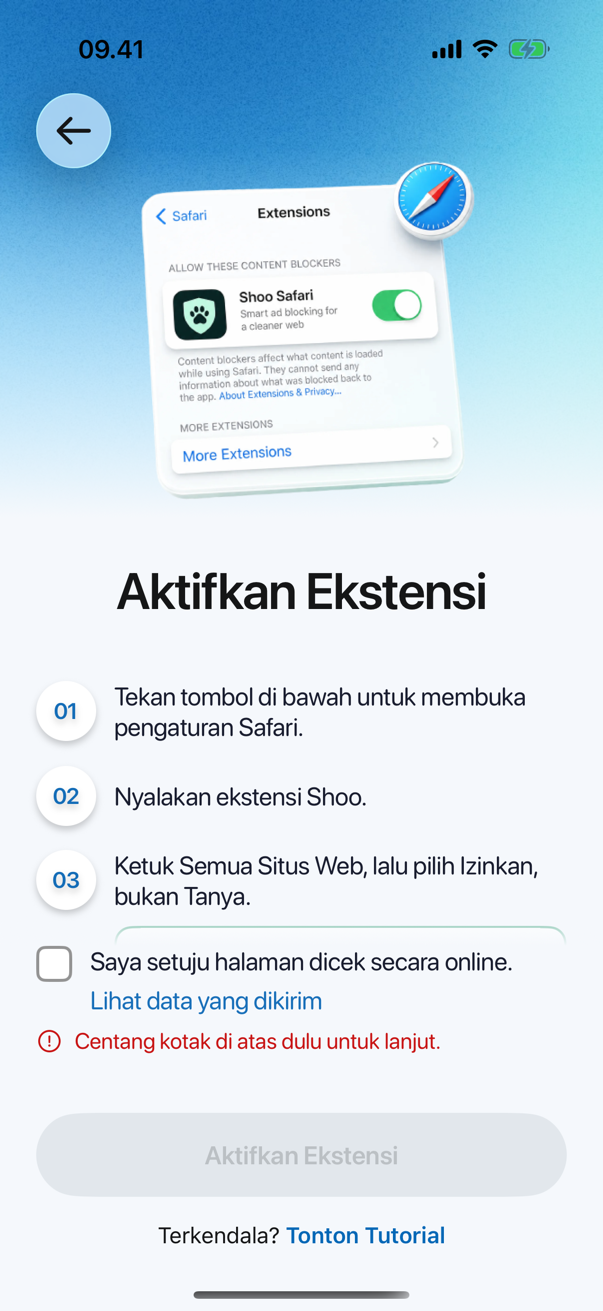
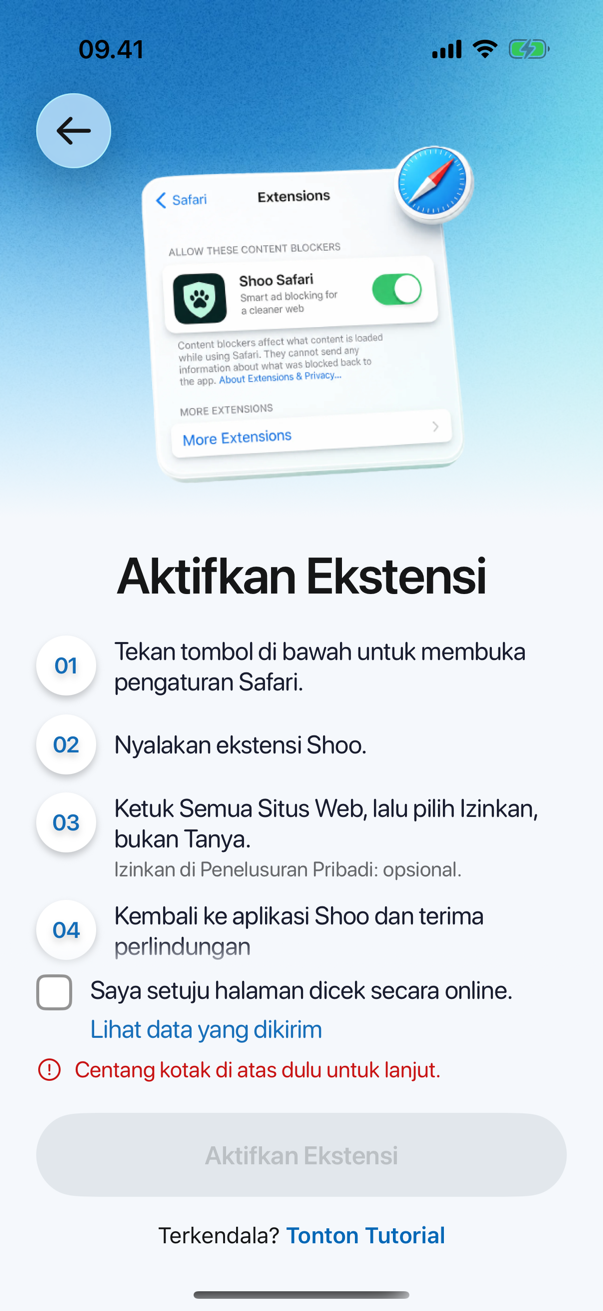
fix(ON-04): all four steps fit above the consent box (Figma 110:4440)
Alief: lower the box so every instruction shows without scrolling. The box now
sits right above the button, rows are 12 apart and 20 under the headline, and the
hero starts 10.5 pt higher. Step 3's picture card is gone; "Izinkan di Penelusuran
Pribadi: opsional." is a grey second line of step 3. On a 402 x 874 iPhone step
04 ends above the box (new UI test); smaller iPhones still scroll.

Changed region(s): [[0.0597, 0.4272, 0.8955, 0.8238], [0.209, 0.0915, 0.806, 0.3966], [0.7463, 0.2441, 0.7761, 0.2746]]

diff --git a/ios/ShooApp/Features/Onboarding/TurnOnExtensionView.swift b/ios/ShooApp/Features/Onboarding/TurnOnExtensionView.swift
@@ -43,8 +43,6 @@ struct TurnOnExtensionView: View {
     @State private var cameBack = false
     /// Taps on the grey button before the box was ticked; "tick the box first" shows under the box from the first.
     @State private var consentNudges = 0
-    /// `OnboardingStepRow`'s badge, so the picture under step 3 lines up with the step's text.
-    @ScaledMetric(relativeTo: .subheadline) private var stepBadgeSize: CGFloat = 40
 
     /// A heartbeat can land a moment after the user is back from Safari: look again for this long (#135).
     private static let recheck = (times: 10, every: Duration.seconds(2))
@@ -61,10 +59,12 @@ struct TurnOnExtensionView: View {
             onBack: onBack
         ) {
             // Figma "image 1" at y 72.5, the headline right under it at 373.
-            OnboardingHeroImage(name: "ExtensionIllustration", top: 10.5, bottom: 0.5)
+            // Figma 110:4440 has it 10.5 lower; with four steps that is the room step 04 needs above the box.
+            OnboardingHeroImage(name: "ExtensionIllustration", top: 0, bottom: 0.5)
         } content: {
-            // Figma "stack": 16 between rows, 40 under the headline.
-            VStack(alignment: .leading, spacing: 16) {
+            // Figma "stack" had 16 between rows and 40 under the headline for three steps; 12 and 20 fit all four
+            // above the consent box on a 402 × 874 iPhone without scrolling (Alief, 20 Nov 2026).
+            VStack(alignment: .leading, spacing: 12) {
                 // The reason first, above the steps, so it is seen without scrolling (#135).
                 if let nextStep, showsStatusNote || showsAllSitesWarning {
                     Label { Text(nextStep.message) } icon: { Image(systemName: "info.circle.fill") }
@@ -81,13 +81,8 @@ struct TurnOnExtensionView: View {
                 // Once the switch is known to be on, the setup steps are done; only the callout is left.
                 if !showsStatusNote || nextStep?.opensSafariFirst != true {
                     ForEach(Array(steps.enumerated()), id: \.offset) { index, step in
-                        OnboardingStepRow(number: index + 1, text: step.text)
+                        OnboardingStepRow(number: index + 1, text: step.text, note: step.note)
                             .accessibilityIdentifier("extension.step.\(index + 1)")
-                        if step == .allowEveryWebsite {
-                            AllWebsitesAllowHint()
-                                .padding(.leading, stepBadgeSize + 12)
-                                .padding(.top, -6)
-                        }
                     }
                 }
                 if let consent, consent.failed, consent.limited {
@@ -101,11 +96,10 @@ struct TurnOnExtensionView: View {
                 }
             }
             .frame(maxWidth: .infinity, alignment: .leading)
-            .padding(.top, 40)
+            .padding(.top, 20)
         } footer: {
             if let consent, consent.showsCheckbox {
-                // Figma: 24 under the steps' area, 55 above the button.
-                // Figma: the checkbox block ends 55 above the button (footer rows are 12 apart).
+                // Figma 110:4440: the box sits right above the button (Alief: lower it so every step shows).
                 VStack(alignment: .leading, spacing: 8) {
                     ConsentCheckbox(isChecked: consent.$isChecked) { isDataSheetPresented = true }
                     if showsConsentHint {
@@ -115,7 +109,7 @@ struct TurnOnExtensionView: View {
                             .accessibilityIdentifier("extension.consentHint")
                     }
                 }
-                .padding(.bottom, showsConsentHint ? 23 : 43)
+                .padding(.bottom, showsConsentHint ? 4 : 12)
             }
             if let onSkipCheck, status != nil, nextStep == nil || (consent != nil && status?.isActive == true) {
                 // Shoo is already on (Back from Safari Default, or switched on before): nothing left to do here.
@@ -408,55 +402,12 @@ struct OnboardingTutorialLink: View {
     }
 }
 
-/// Under the "All Websites → Allow" step: the row as Safari's Shoo page shows it once set, so the user knows
-/// what to look for, and whether Private Browsing matters. Safari's labels are drawn in the app language
-/// (iOS uses the same words: "Semua Situs Web", "Izinkan", "Izinkan di Penelusuran Pribadi").
-private struct AllWebsitesAllowHint: View {
-    private static let allow = Color.dynamic(0x0B8A5B, dark: 0x3DD68C)
-
-    var body: some View {
-        VStack(alignment: .leading, spacing: 8) {
-            HStack(spacing: 8) {
-                Text("All Websites")
-                    .onboardingFont(16, design: .rounded, tracking: -0.2, relativeTo: .callout)
-                    .foregroundStyle(OnboardingTheme.ink)
-                    .fixedSize(horizontal: false, vertical: true)
-                Spacer(minLength: 8)
-                Image(systemName: "checkmark")
-                    .font(.system(size: 13, weight: .bold))
-                    .foregroundStyle(Self.allow)
-                Text("Allow")
-                    .onboardingFont(16, weight: .semibold, relativeTo: .callout)
-                    .foregroundStyle(Self.allow)
-                Image(systemName: "chevron.right")
-                    .font(.system(size: 13, weight: .semibold))
-                    .foregroundStyle(OnboardingTheme.placeholder)
-            }
-            .padding(.horizontal, 14)
-            .padding(.vertical, 12)
-            .background(OnboardingTheme.card, in: RoundedRectangle(cornerRadius: 12, style: .continuous))
-            .overlay {
-                RoundedRectangle(cornerRadius: 12, style: .continuous)
-                    .strokeBorder(Self.allow.opacity(0.6), lineWidth: 1.5)
-            }
-            // The step's own text says the same: VoiceOver reads it once.
-            .accessibilityHidden(true)
-            .accessibilityIdentifier("extension.allSitesPicture")
-
-            Text("Optional: also switch on Allow in Private Browsing, so private tabs are checked too.")
-                .onboardingFont(14, design: .rounded, relativeTo: .footnote)
-                .foregroundStyle(OnboardingTheme.secondaryInk)
-                .fixedSize(horizontal: false, vertical: true)
-                .accessibilityIdentifier("extension.privateBrowsing")
-        }
-        .frame(maxWidth: .infinity, alignment: .leading)
-    }
-}
-
 /// White 40 pt badge "01" + one instruction (Figma "row").
 struct OnboardingStepRow: View {
     let number: Int
     let text: LocalizedStringKey
+    /// A short second line in grey, e.g. "Private Browsing: optional." under All Websites.
+    var note: LocalizedStringKey?
     @ScaledMetric(relativeTo: .subheadline) private var badgeSize: CGFloat = 40
 
     var body: some View {
@@ -470,12 +421,20 @@ struct OnboardingStepRow: View {
                 // Figma "Button": black 20%, y 2.7, blur 4.5 (its -2.7 spread has no SwiftUI equivalent).
                 .shadow(color: .black.opacity(0.2), radius: 2.3, y: 2.7)
                 .accessibilityLabel(Text("Step \(number)"))
-            Text(text)
-                // Figma: 22 pt lines, the font's own.
-                .onboardingFont(17, design: .rounded, tracking: -0.17, relativeTo: .body)
-                .foregroundStyle(OnboardingTheme.stepInk)
-                .fixedSize(horizontal: false, vertical: true)
-                .frame(maxWidth: .infinity, minHeight: badgeSize, alignment: .leading)
+            VStack(alignment: .leading, spacing: 2) {
+                Text(text)
+                    // Figma: 22 pt lines, the font's own.
+                    .onboardingFont(17, design: .rounded, tracking: -0.17, relativeTo: .body)
+                    .foregroundStyle(OnboardingTheme.stepInk)
+                    .fixedSize(horizontal: false, vertical: true)
+                if let note {
+                    Text(note)
+                        .onboardingFont(14, design: .rounded, relativeTo: .footnote)
+                        .foregroundStyle(OnboardingTheme.secondaryInk)
+                        .fixedSize(horizontal: false, vertical: true)
+                }
+            }
+            .frame(maxWidth: .infinity, minHeight: badgeSize, alignment: .leading)
         }
         .accessibilityElement(children: .combine)
     }

diff --git a/ios/ShooApp/UITests/OnboardingUITests.swift b/ios/ShooApp/UITests/OnboardingUITests.swift
@@ -151,7 +151,7 @@ final class OnboardingUITests: XCTestCase {
         XCTAssertTrue(again.tabBars.buttons["Shield"].waitForExistence(timeout: 10), again.debugDescription)
     }
 
-    /// Usability test 20 Nov 2026: "All Websites → Allow" is a numbered step with a picture of the row, and when
+    /// Usability test 20 Nov 2026: "All Websites → Allow" is a numbered step with a Private Browsing note, and when
     /// the extension has reported that it may read only some sites, onboarding says so and does not move on.
     @MainActor
     func testAllWebsitesStepAndWarningWhenShooCanReadOnlySomeSites() {
@@ -160,30 +160,30 @@ final class OnboardingUITests: XCTestCase {
         XCTAssertTrue(app.buttons["extension.turnOn"].waitForExistence(timeout: 5), app.debugDescription)
         XCTAssertTrue(app.staticTexts["Tap All Websites and choose Allow, not Ask."].exists, app.debugDescription)
         XCTAssertTrue(app.descendants(matching: .any)["extension.step.4"].exists, app.debugDescription)
-        XCTAssertTrue(app.descendants(matching: .any)["extension.privateBrowsing"].exists, app.debugDescription)
+        let step3 = app.descendants(matching: .any)["extension.step.3"]
+        XCTAssertTrue(step3.label.contains("Allow in Private Browsing: optional."), step3.label)
         XCTAssertTrue(app.descendants(matching: .any)["extension.offHint"].waitForExistence(timeout: 5), app.debugDescription)
         XCTAssertFalse(app.buttons["extension.continue"].exists)
     }
 
-    /// `SHOO_SHOT_DIR` only: the new step 3 picture and step 4 scrolled into view, in Indonesian, for the PR.
+    /// Figma 110:4440 (Alief, 20 Nov 2026): on a 402 × 874 iPhone all four steps show above the consent box
+    /// without scrolling. `SHOO_SHOT_DIR` keeps the screen, in Indonesian, for the PR.
     @MainActor
-    func testAllWebsitesStepScreenshotForPR() throws {
-        guard let directory = ProcessInfo.processInfo.environment["SHOO_SHOT_DIR"] else {
-            throw XCTSkip("set SHOO_SHOT_DIR to keep the screenshot")
-        }
+    func testAllFourStepsFitAboveTheConsentBoxWithoutScrolling() throws {
         let app = XCUIApplication.mock([
-            "-settings.language", "id", "-UITestNotifications", "denied", "-debug.onboardingStep", "turnOnExtension",
+            "-settings.language", "id", "-UITestNotifications", "denied", "-debug.askDataConsent", "YES",
+            "-debug.onboardingStep", "turnOnExtension",
         ])
-        let note = app.descendants(matching: .any)["extension.privateBrowsing"]
-        let turnOn = app.buttons["extension.turnOn"]
-        XCTAssertTrue(turnOn.waitForExistence(timeout: 5), app.debugDescription)
-        let window = app.windows.firstMatch
-        for _ in 0..<6 where note.frame.maxY > turnOn.frame.minY - 140 {
-            let start = window.coordinate(withNormalizedOffset: CGVector(dx: 0.5, dy: 0.55))
-            start.press(forDuration: 0.1, thenDragTo: start.withOffset(CGVector(dx: 0, dy: -120)), withVelocity: .slow, thenHoldForDuration: 0.3)
+        let consent = app.buttons["extension.consent"]
+        XCTAssertTrue(consent.waitForExistence(timeout: 5), app.debugDescription)
+        guard app.windows.firstMatch.frame.height >= 874 else { throw XCTSkip("Figma's page is 874 pt; smaller iPhones scroll") }
+        let step4 = app.descendants(matching: .any)["extension.step.4"]
+        XCTAssertTrue(step4.exists, app.debugDescription)
+        XCTAssertLessThanOrEqual(step4.frame.maxY, consent.frame.minY, "step 04 \(step4.frame) vs box \(consent.frame)")
+        if let directory = ProcessInfo.processInfo.environment["SHOO_SHOT_DIR"] {
+            try XCUIScreen.main.screenshot().pngRepresentation
+                .write(to: URL(fileURLWithPath: directory).appendingPathComponent("on04-all-steps-fit.png"))
         }
-        try XCUIScreen.main.screenshot().pngRepresentation
-            .write(to: URL(fileURLWithPath: directory).appendingPathComponent("on04-all-websites-scrolled.png"))
     }
 
     /// QA 2026-11-11 #7: back from Settings with Shoo still off, the note above the steps pushes step 03 down

diff --git a/ios/ShooApp/Features/Onboarding/ExtensionSetup.swift b/ios/ShooApp/Features/Onboarding/ExtensionSetup.swift
@@ -75,6 +75,11 @@ extension ExtensionSetup.Step {
         }
     }
 
+    /// Under All Websites: Private Browsing is a separate switch on the same page, and normal tabs don't need it.
+    var note: LocalizedStringKey? {
+        self == .allowEveryWebsite ? "Allow in Private Browsing: optional." : nil
+    }
+
     var systemImage: String {
         switch self {
         case .tapTurnOn: "hand.tap.fill"
